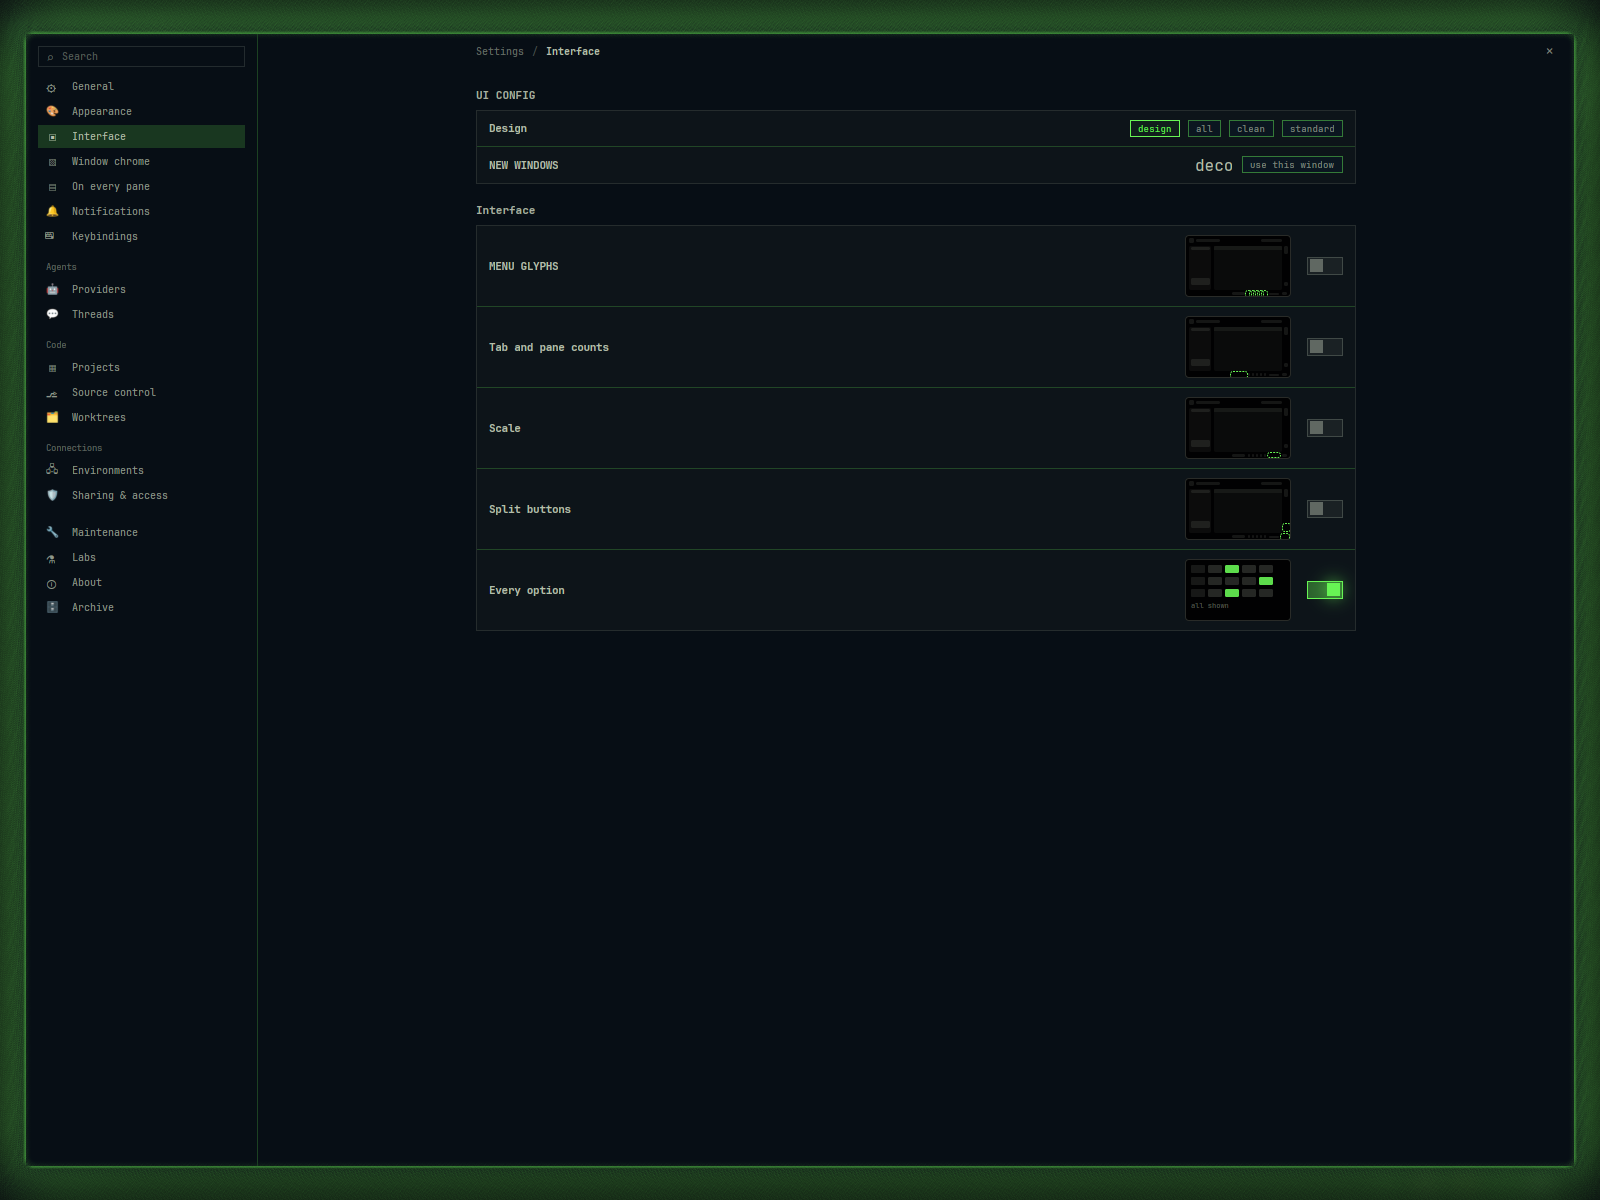
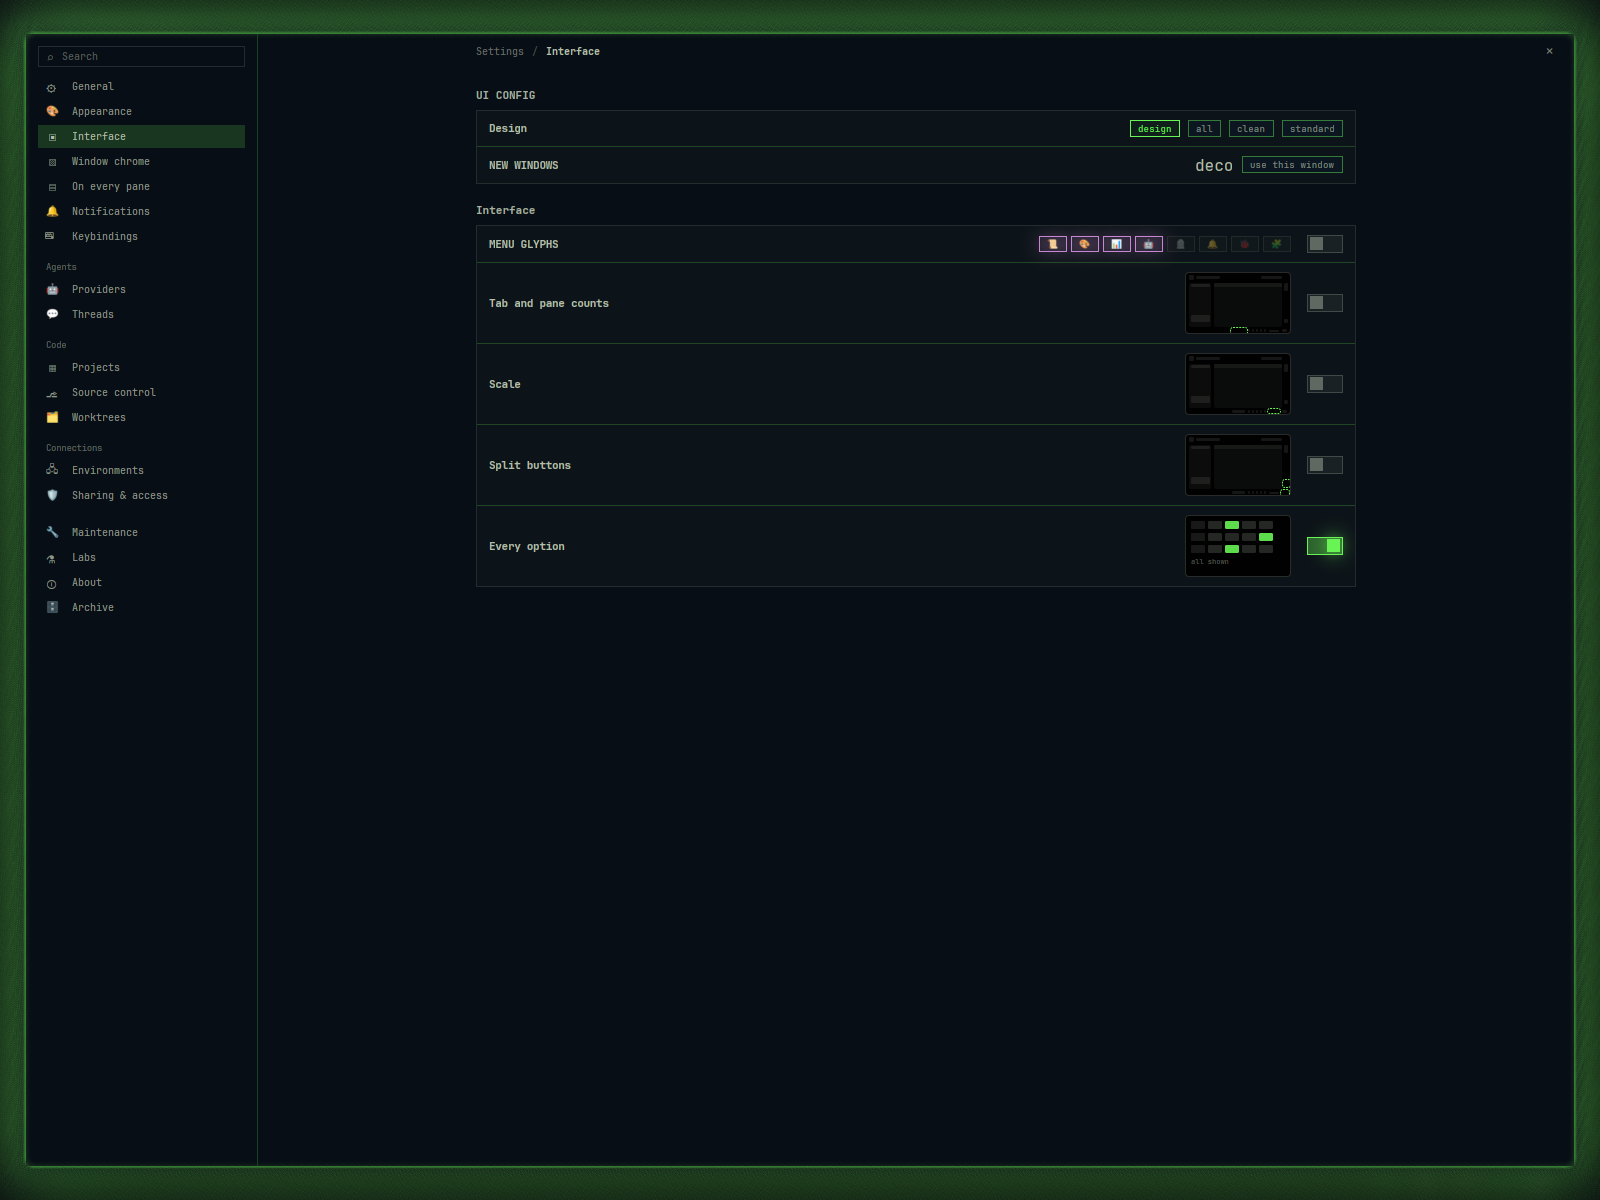
Interface keeps each corner button independently switchable
The Interface page now shows an individual chip for each corner-button glyph beside the combined Menu glyphs switch. Clicking one chip changes only that button, and the page still fits the Settings viewport.

The Appearance menu split removed the hosted palette's UI Config area, which had contained individual glyph controls. The replacement page kept their combined switch but omitted the per-button choices, leaving some preferences reachable only from the quick tray.

The existing keys and click behavior were reused in the Interface row. A focused interaction test checks that Plugins changes without changing Notifications, and the page geometry test guards against restoring a scroll.

diff --git a/app/src/settings_view.rs b/app/src/settings_view.rs
@@ -1150,6 +1150,42 @@ impl Workspace {
         }
     }
 
+    /// The combined Menu glyphs switch is convenient, but each corner button
+    /// must remain independently configurable in Settings as it was in the
+    /// hosted palette. A chip stops the row's combined-switch press.
+    fn st_ui_glyphs(sk: &skin::Skin, cx: &mut Context<Self>) -> AnyElement {
+        use uiconfig::Key as K;
+        let mut chips = div().flex().flex_row().flex_wrap().gap_1();
+        for (glyph, key, id) in [
+            ("\u{1f4dc}", K::Artifacts, "st-ui-g-artifacts"),
+            ("\u{1f3a8}", K::Surfaces, "st-ui-g-surfaces"),
+            ("\u{1f4ca}", K::Sliders, "st-ui-g-sliders"),
+            ("\u{1f916}", K::Agents, "st-ui-g-agents"),
+            ("\u{1faa6}", K::Graveyard, "st-ui-g-graveyard"),
+            ("\u{1f514}", K::Notifications, "st-ui-g-notifications"),
+            ("\u{1f41e}", K::BugReport, "st-ui-g-bug"),
+            ("\u{1f9e9}", K::Plugins, "st-ui-g-plugins"),
+        ] {
+            let on = uiconfig::shown(cx, key);
+            chips = chips.child(
+                sk.chip(on)
+                    .id(id)
+                    .debug_selector(move || id.into())
+                    .cursor_pointer()
+                    .when(!on, |d| d.opacity(0.35))
+                    .child(sk.control_text(glyph))
+                    .on_mouse_down(
+                        MouseButton::Left,
+                        cx.listener(move |ws, _: &MouseDownEvent, _w, cx| {
+                            cx.stop_propagation();
+                            ws.flip_ui(&[key], !on, cx);
+                        }),
+                    ),
+            );
+        }
+        chips.into_any_element()
+    }
+
     /// The button on a row whose setting still has a panel of its own. With a
     /// `host` the panel opens in place, on this page of the book; without one
     /// (the composer, the Threshing Floor, which are whole surfaces) the book
@@ -1777,8 +1813,12 @@ impl Workspace {
                                 sk,
                                 &sentence(title(t)),
                                 None,
-                                settings_preview::Spot::of(keys)
-                                    .map(|spot| settings_preview::interface(th, sk, spot, on)),
+                                if *id == "st-ui-glyphs" {
+                                    Some(Self::st_ui_glyphs(sk, cx))
+                                } else {
+                                    settings_preview::Spot::of(keys)
+                                        .map(|spot| settings_preview::interface(th, sk, spot, on))
+                                },
                                 Some(self.st_ui_switch(th, sk1, id, keys, cx)),
                             )
                         })
@@ -3125,6 +3165,19 @@ mod tests {
         assert!(
             hidden == 0 || hidden == uiconfig::Key::MENU_GLYPHS.len(),
             "the glyphs flip together: {hidden} hidden"
+        );
+        let plugins_before = shown(cx, uiconfig::Key::Plugins);
+        let notices_before = shown(cx, uiconfig::Key::Notifications);
+        let plugin_chip = cx
+            .debug_bounds("st-ui-g-plugins")
+            .expect("Plugins has its own glyph switch");
+        cx.simulate_click(plugin_chip.center(), gpui::Modifiers::none());
+        redraw(cx);
+        assert_eq!(shown(cx, uiconfig::Key::Plugins), !plugins_before);
+        assert_eq!(
+            shown(cx, uiconfig::Key::Notifications),
+            notices_before,
+            "one glyph switch leaves the others alone"
         );
         let en = settings_items_in(lang::Lang::En);
         let title = lang::Lang::En.strings().ui.ui_counts;
